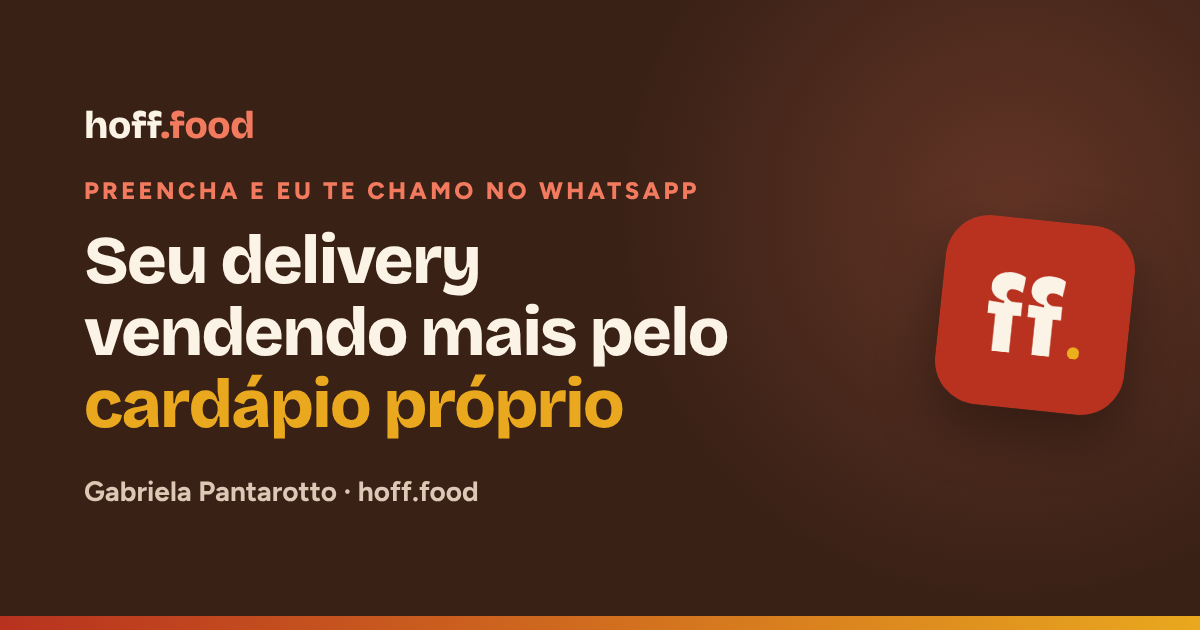
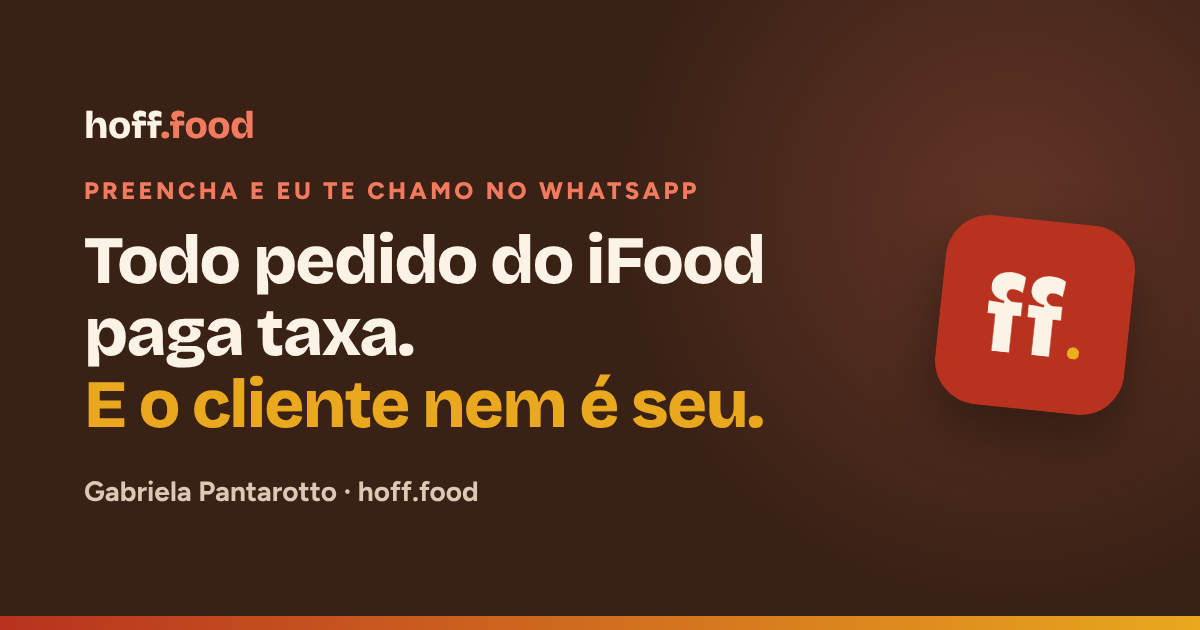
Frase de posicionamento nova, gancho da taxa no formulário, pixel do site, calculadora a partir de R$ 60 mil e linguagem do briefing
Claude-Session: https://claude.ai/code/session_01KkMnGWdzj6w16u1CcYf93H

Changed region(s): [[0.0617, 0.3619, 0.6475, 0.6937]]

diff --git a/index.html b/index.html
@@ -3,8 +3,8 @@
 <head>
 <meta charset="utf-8">
 <meta name="viewport" content="width=device-width, initial-scale=1, viewport-fit=cover">
-<title>hoff.food | Canal próprio para delivery e restaurantes</title>
-<meta name="description" content="Campanha no raio de entrega, cardápio próprio e recompra semanal para restaurantes e deliveries que querem vender direto, sem depender só do iFood.">
+<title>hoff.food | Canal próprio para delivery</title>
+<meta name="description" content="Campanha no raio de entrega, cardápio próprio e recompra semanal para donos de delivery que querem vender direto, sem depender só do iFood.">
 <meta name="theme-color" content="#3A2116">
 <link rel="canonical" href="https://www.estudiohoff.com.br/">
 
@@ -13,7 +13,7 @@
 <meta property="og:locale" content="pt_BR">
 <meta property="og:site_name" content="hoff.food">
 <meta property="og:title" content="Todo pedido paga taxa. E o cliente nem é seu.">
-<meta property="og:description" content="Campanha no raio de entrega, cardápio próprio e recompra semanal para restaurantes e deliveries que querem vender direto, sem depender só do iFood.">
+<meta property="og:description" content="Campanha no raio de entrega, cardápio próprio e recompra semanal para donos de delivery que querem vender direto, sem depender só do iFood.">
 <meta property="og:url" content="https://www.estudiohoff.com.br/">
 <meta property="og:image" content="https://www.estudiohoff.com.br/og-image.png">
 <meta property="og:image:type" content="image/png">
@@ -22,7 +22,7 @@
 <meta property="og:image:alt" content="hoff.food: todo pedido paga taxa e o cliente nem é seu. Canal próprio para delivery.">
 <meta name="twitter:card" content="summary_large_image">
 <meta name="twitter:title" content="Todo pedido paga taxa. E o cliente nem é seu.">
-<meta name="twitter:description" content="Campanha no raio de entrega, cardápio próprio e recompra semanal para restaurantes e deliveries que querem vender direto, sem depender só do iFood.">
+<meta name="twitter:description" content="Campanha no raio de entrega, cardápio próprio e recompra semanal para donos de delivery que querem vender direto, sem depender só do iFood.">
 <meta name="twitter:image" content="https://www.estudiohoff.com.br/og-image.png">
 
 <!-- Ícones da aba do navegador e da tela inicial -->
@@ -164,7 +164,7 @@ mark{background:var(--mustard);color:#3A2116;padding:0 .14em;border-radius:.16em
 .calc-row{display:flex;align-items:baseline;justify-content:space-between;gap:12px}
 .calc-row label,.calc-plan label{font-weight:700;font-size:16px}
 .calc-row output{font:800 24px/1 var(--f-display);color:var(--tomato);white-space:nowrap}
-#calc-fat{--p:11%;-webkit-appearance:none;appearance:none;display:block;width:100%;height:28px;margin:0;background:none;cursor:pointer}
+#calc-fat{--p:56%;-webkit-appearance:none;appearance:none;display:block;width:100%;height:28px;margin:0;background:none;cursor:pointer}
 #calc-fat::-webkit-slider-runnable-track{height:8px;border-radius:99px;background:linear-gradient(to right,var(--tomato) var(--p),var(--line) var(--p))}
 #calc-fat::-moz-range-track{height:8px;border-radius:99px;background:var(--line)}
 #calc-fat::-moz-range-progress{height:8px;border-radius:99px;background:var(--tomato)}
@@ -883,7 +883,7 @@ fieldset.field{border:0;padding:0;margin:0;min-width:0}
     <div class="hero-copy">
       <p class="eyebrow">Para delivery que depende do iFood</p>
       <h1>Todo pedido <mark>paga taxa.</mark><br>E o cliente <span style="white-space:nowrap">nem é seu.</span></h1>
-      <p class="lead">O app fica com a margem e com o contato de quem compra. Um canal próprio devolve os dois.</p>
+      <p class="lead">Eu ajudo donos de delivery que vendem pelo iFood a faturar mais pelo cardápio próprio, pelo método Escala de Pedidos.</p>
       <div class="hero-actions">
         <a class="btn btn-cta" href="https://wa.me/5519988485348?text=Oi%21%20Vim%20pelo%20site%20do%20hoff.food%20e%20quero%20entender%20como%20funciona%20para%20o%20meu%20neg%C3%B3cio." data-wa data-pos="hero" target="_blank" rel="noopener">Quero vender direto <svg class="ic" aria-hidden="true"><use href="#i-arrow"/></svg></a>
         <a class="link-quiet" href="#como-funciona">Ver como funciona</a>
@@ -900,10 +900,10 @@ fieldset.field{border:0;padding:0;margin:0;min-width:0}
       <h2>Quanto o iFood leva do seu delivery por mês?</h2>
       <div class="calc-row">
         <label for="calc-fat">Faturamento mensal no iFood</label>
-        <output id="calc-fat-out" for="calc-fat">R$ 20 mil</output>
+        <output id="calc-fat-out" for="calc-fat">R$ 60 mil</output>
       </div>
       <div>
-        <input type="range" id="calc-fat" min="10000" max="100000" step="5000" value="20000" aria-describedby="calc-scale">
+        <input type="range" id="calc-fat" min="10000" max="100000" step="5000" value="60000" aria-describedby="calc-scale">
         <div class="calc-scale" id="calc-scale"><span>R$ 10 mil</span><span>R$ 100 mil+</span></div>
       </div>
       <div class="calc-plan">
@@ -917,9 +917,9 @@ fieldset.field{border:0;padding:0;margin:0;min-width:0}
       </div>
       <div class="calc-out" aria-live="polite">
         <span class="calc-small">Cerca de</span>
-        <strong id="calc-mes">R$ 5.240</strong>
-        <span class="calc-small">por mês ficam com o marketplace.</span>
-        <p class="calc-sub">≈ <b id="calc-dia">R$ 175</b> por dia · <b id="calc-ano">R$ 62.880</b> por ano</p>
+        <strong id="calc-mes">R$ 15.720</strong>
+        <span class="calc-small">por mês ficam com o iFood.</span>
+        <p class="calc-sub">≈ <b id="calc-dia">R$ 524</b> por dia · <b id="calc-ano">R$ 188.640</b> por ano</p>
       </div>
       <a class="btn btn-cta btn-block" id="calc-cta" href="https://wa.me/5519988485348?text=Oi%21%20Vim%20pelo%20site%20do%20hoff.food%20e%20quero%20entender%20como%20funciona%20para%20o%20meu%20neg%C3%B3cio." data-wa data-pos="calculadora" target="_blank" rel="noopener">Quero reduzir essa dependência <svg class="ic" aria-hidden="true"><use href="#i-arrow"/></svg></a>
       <p class="calc-note">Estimativa com base nas taxas públicas do iFood. Seu contrato pode variar. É o custo de hoje, não uma promessa de economia.</p>
@@ -935,16 +935,16 @@ fieldset.field{border:0;padding:0;margin:0;min-width:0}
   <div class="marquee">
     <div class="track">
       <ul>
-        <li>Hamburgueria</li><li>Pizzaria</li><li>Restaurante</li><li>Bar</li><li>Confeitaria</li><li>Delivery</li>
+        <li>Hamburgueria</li><li>Pizzaria</li><li>Japonês</li><li>Confeitaria</li><li>Delivery</li>
       </ul>
       <ul aria-hidden="true">
-        <li>Hamburgueria</li><li>Pizzaria</li><li>Restaurante</li><li>Bar</li><li>Confeitaria</li><li>Delivery</li>
+        <li>Hamburgueria</li><li>Pizzaria</li><li>Japonês</li><li>Confeitaria</li><li>Delivery</li>
       </ul>
       <ul aria-hidden="true">
-        <li>Hamburgueria</li><li>Pizzaria</li><li>Restaurante</li><li>Bar</li><li>Confeitaria</li><li>Delivery</li>
+        <li>Hamburgueria</li><li>Pizzaria</li><li>Japonês</li><li>Confeitaria</li><li>Delivery</li>
       </ul>
       <ul aria-hidden="true">
-        <li>Hamburgueria</li><li>Pizzaria</li><li>Restaurante</li><li>Bar</li><li>Confeitaria</li><li>Delivery</li>
+        <li>Hamburgueria</li><li>Pizzaria</li><li>Japonês</li><li>Confeitaria</li><li>Delivery</li>
       </ul>
     </div>
   </div>
@@ -970,7 +970,7 @@ fieldset.field{border:0;padding:0;margin:0;min-width:0}
     </div>
     <div class="turn">
       <p class="turn-big">Nada disso é falta de esforço seu. É falta de método.</p>
-      <p class="turn-sub">Cada pedido que entra só pelo app deixa a comissão com ele, e o cliente também. Falta um sistema que ligue cliente novo, pedido direto e recompra.</p>
+      <p class="turn-sub">Cada pedido que entra só pelo app deixa a comissão com ele, e o cliente também. Falta um método que ligue cliente novo, pedido direto e recompra.</p>
       <div class="duo">
         <p class="duo-a">O pedido que chega pelo app é do app.</p>
         <p class="duo-b">O cliente que chega pelo seu canal é <mark>seu</mark>.</p>
@@ -986,13 +986,13 @@ fieldset.field{border:0;padding:0;margin:0;min-width:0}
   <div class="wrap">
     <div class="head center method-head">
       <p class="eyebrow">Método Escala de Pedidos</p>
-      <h2 class="h2-long">O sistema que devolve ao seu delivery o <em class="hl">controle</em> de quanto você vai vender hoje.</h2>
+      <h2 class="h2-long">O método que devolve ao seu delivery o <em class="hl">controle</em> de quanto você vende pelo canal próprio.</h2>
       <p class="lead muted">Seis frentes trabalhando juntas. O iFood continua rodando, e você deixa de depender só dele.</p>
     </div>
     <div class="changes rail" data-label="As seis frentes do método">
       <article class="change">
         <div class="ch-top"><span class="ico"><svg class="ic" aria-hidden="true"><use href="#i-store"/></svg></span><div><h3>Cardápio que vende sozinho</h3><p class="tag">Cardápio próprio e engenharia</p></div></div>
-        <p>Seu melhor vendedor trabalhando por você: pedido direto, sem comissão, com itens e preços pensados pra vender mais.</p>
+        <p>Seu melhor vendedor trabalhando por você: pedido direto, com itens e preços pensados pra vender mais.</p>
       </article>
       <article class="change">
         <div class="ch-top"><span class="ico"><svg class="ic" aria-hidden="true"><use href="#i-mega"/></svg></span><div><h3>Gente nova todo dia</h3><p class="tag">Campanha no raio de entrega</p></div></div>
@@ -1015,7 +1015,7 @@ fieldset.field{border:0;padding:0;margin:0;min-width:0}
         <p>O iFood continua rodando do lado, e o hoff.food também pode cuidar da gestão do app enquanto o seu canal próprio cresce.</p>
       </article>
     </div>
-    <p class="changes-close">Você continua no marketplace, mas passa a construir uma base de pedidos que é do seu delivery. <strong>O coração do método entra no ar em até 10 dias.</strong></p>
+    <p class="changes-close">Você continua no iFood, mas passa a construir uma base de pedidos que é do seu delivery. <strong>O coração do método entra no ar em até 10 dias.</strong></p>
     <div class="cta-row"><a class="btn btn-cta" id="escala-link" href="https://wa.me/5519988485348?text=Oi%21%20Vim%20pelo%20site%20do%20hoff.food%20e%20quero%20saber%20mais%20sobre%20a%20Escala%20de%20Pedidos." data-wa data-pos="escala" target="_blank" rel="noopener">Quero conhecer o método <svg class="ic" aria-hidden="true"><use href="#i-arrow"/></svg></a></div>
   </div>
 </section>
@@ -1065,7 +1065,7 @@ fieldset.field{border:0;padding:0;margin:0;min-width:0}
         <h3 class="dur">10 dias</h3>
         <p>Tudo criado em 10 dias, sem recorrência, mais 30 dias de acompanhamento.</p>
         <p class="keep"><svg class="ic" aria-hidden="true"><use href="#i-check"/></svg>Depois, cardápio, campanha e recompra ficam com você.</p>
-        <p class="who"><b>Para quem:</b> quem tem time pra tocar o dia a dia e quer o sistema certo, montado por especialista.</p>
+        <p class="who"><b>Para quem:</b> quem tem time pra tocar o dia a dia e quer o método certo, montado por especialista.</p>
         <a class="plan-link" href="https://escala.estudiohoff.com.br/" target="_blank" rel="noopener">Ver o método completo <svg class="ic" aria-hidden="true"><use href="#i-arrow"/></svg></a>
         <a class="btn btn-ghost btn-sm" href="https://wa.me/5519988485348?text=Oi%21%20Vim%20pelo%20site%20do%20hoff.food%20e%20quero%20saber%20mais%20sobre%20a%20implementa%C3%A7%C3%A3o%20em%2010%20dias." data-wa data-pos="plano-implementacao" target="_blank" rel="noopener"><span>Quero a implementação</span></a>
       </article>
@@ -1104,7 +1104,7 @@ fieldset.field{border:0;padding:0;margin:0;min-width:0}
           </article>
           <article class="avulso">
             <span class="badge"><svg class="ic" aria-hidden="true"><use href="#i-store"/></svg></span>
-            <div><h3>Cardápio próprio completo e otimizado</h3><p>Para quem ainda não tem canal próprio: pedido direto pelo WhatsApp, sem comissão de marketplace. As imagens vêm do seu negócio.</p></div>
+            <div><h3>Cardápio próprio completo e otimizado</h3><p>Para quem ainda não tem canal próprio: pedido direto pelo WhatsApp, sem passar pelo iFood. As imagens vêm do seu negócio.</p></div>
             <a class="btn btn-ghost btn-sm" href="https://wa.me/5519988485348?text=Oi%21%20Vim%20pelo%20site%20do%20hoff.food%20e%20quero%20saber%20mais%20sobre%20o%20card%C3%A1pio%20pr%C3%B3prio%20completo." data-wa data-pos="servico-cardapio" target="_blank" rel="noopener"><span>Falar sobre este serviço</span></a>
           </article>
           <article class="avulso">
@@ -1119,7 +1119,7 @@ fieldset.field{border:0;padding:0;margin:0;min-width:0}
     <div class="start">
       <h3>Por onde começar?</h3>
       <ul>
-        <li><span>Tem time para tocar o dia a dia e quer o sistema certo</span><svg class="ic" aria-hidden="true"><use href="#i-arrow"/></svg><strong class="go">Implementação em 10 dias</strong></li>
+        <li><span>Tem time para tocar o dia a dia e quer o método certo</span><svg class="ic" aria-hidden="true"><use href="#i-arrow"/></svg><strong class="go">Implementação em 10 dias</strong></li>
         <li><span>Quer escalar pedidos, faturar mais e construir uma marca duradoura</span><svg class="ic" aria-hidden="true"><use href="#i-arrow"/></svg><strong class="go">Gestão de delivery completa (3, 6 ou 12 meses)</strong></li>
         <li><span>Precisa só de uma parte do método</span><svg class="ic" aria-hidden="true"><use href="#i-arrow"/></svg><strong class="go"><a href="#avulsos" data-open="avulsos">Serviços avulsos</a></strong></li>
       </ul>
@@ -1266,7 +1266,7 @@ fieldset.field{border:0;padding:0;margin:0;min-width:0}
     <div class="head center"><h2>Antes de você perguntar</h2></div>
     <div class="faq">
       <div class="faq-col">
-        <details name="faq"><summary>Serve pro meu tipo de negócio?<svg class="ic" aria-hidden="true"><use href="#i-down"/></svg></summary><p class="ans">Serve para deliveries e restaurantes. A Gabriela já entregou mais de 150 projetos com o Estúdio Hoff, de hamburgueria a pizzaria. O método rende mais pra quem já vende bem no marketplace; quem ainda não tem canal próprio começa pelo cardápio próprio.</p></details>
+        <details name="faq"><summary>Serve pro meu tipo de negócio?<svg class="ic" aria-hidden="true"><use href="#i-down"/></svg></summary><p class="ans">Serve para donos de delivery que vendem pelo iFood. A Gabriela já entregou mais de 150 projetos com o Estúdio Hoff, de hamburgueria a pizzaria. O método rende mais pra quem já vende bem no iFood; quem ainda não tem canal próprio começa pelo cardápio próprio.</p></details>
         <details name="faq"><summary>Como contrato o Método Escala de Pedidos?<svg class="ic" aria-hidden="true"><use href="#i-down"/></svg></summary><p class="ans">De três formas: implementação (no ar em 10 dias, com 30 dias de acompanhamento, e depois a gestão fica com você), recorrência (a mesma implementação, seguida de gestão por 3, 6 ou 12 meses) ou avulso (engenharia de cardápio, cardápio próprio ou tráfego pago). Na conversa no WhatsApp você descobre qual faz sentido agora.</p></details>
         <details name="faq"><summary>Quanto custa?<svg class="ic" aria-hidden="true"><use href="#i-down"/></svg></summary><p class="ans">Depende do seu momento e do que o negócio precisa agora. Por isso o primeiro passo é a conversa no WhatsApp. Depois dela, você recebe a proposta com os valores, sem compromisso.</p></details>
       </div>
@@ -1315,7 +1315,7 @@ fieldset.field{border:0;padding:0;margin:0;min-width:0}
     <div class="foot-grid">
       <div class="foot-brand">
[1 lines of base64/hex data omitted]
-        <p>Marketing de comida que vende. Para restaurantes e deliveries.</p>
+        <p>Marketing de comida que vende. Para donos de delivery.</p>
       </div>
       <div>
         <h4>Navegação</h4>
@@ -1483,7 +1483,7 @@ fieldset.field{border:0;padding:0;margin:0;min-width:0}
       document.getElementById('calc-mes').textContent = brl(mes);
       document.getElementById('calc-dia').textContent = brl(mes / 30);
       document.getElementById('calc-ano').textContent = brl(mes * 12);
-      var msg = 'Oi! Vim pelo site do hoff.food. Fiz a conta: com ' + document.getElementById('calc-fat-out').textContent + ' por mês no iFood, cerca de ' + brl(mes) + ' ficam com o marketplace. Quero entender como reduzir essa dependência.';
+      var msg = 'Oi! Vim pelo site do hoff.food. Fiz a conta: com ' + document.getElementById('calc-fat-out').textContent + ' por mês no iFood, cerca de ' + brl(mes) + ' ficam com o iFood. Quero entender como reduzir essa dependência.';
       cCta.href = WA + encodeURIComponent(msg);
     }
     cFat.addEventListener('input', calc); cSel.addEventListener('change', calc);
@@ -1507,7 +1507,7 @@ fieldset.field{border:0;padding:0;margin:0;min-width:0}
   var quiz = document.getElementById('quiz');
   if(quiz){
     var Q = [
-      {k:'canal', t:'Por onde você vende hoje?', h:'Pode marcar mais de um.', multi:true, o:['Delivery próprio','iFood ou outro marketplace','WhatsApp','Salão']},
+      {k:'canal', t:'Por onde você vende hoje?', h:'Pode marcar mais de um.', multi:true, o:['Delivery próprio','iFood ou outro app','WhatsApp','Salão']},
       {k:'venda', t:'O que você vende?', o:['Hambúrguer','Pizza','Japonês','Açaí e sobremesas','Restaurante e marmita','Outro']},
       {k:'ifood', t:'Quanto das suas vendas vem do iFood?', h:'Pode ser uma estimativa.', o:['Quase tudo','Mais da metade','Menos da metade','Não sei']},
       {k:'dor', t:'O que mais incomoda hoje?', o:['A taxa come a minha margem','O cliente compra uma vez e não volta','Anuncio e não vejo retorno','Não sei de onde vêm meus pedidos','Quero vender mais direto']},

diff --git a/formulario/index.html b/formulario/index.html
@@ -3,8 +3,8 @@
 <head>
 <meta charset="utf-8">
 <meta name="viewport" content="width=device-width, initial-scale=1, viewport-fit=cover">
-<title>Seu delivery vendendo mais pelo cardápio próprio | hoff.food</title>
-<meta name="description" content="Gabriela Pantarotto ajuda donos de delivery a transformar a taxa que vai para os marketplaces em faturamento no próprio cardápio. Preencha e ela te chama no WhatsApp.">
+<title>Faturar mais pelo cardápio próprio do seu delivery | hoff.food</title>
+<meta name="description" content="Eu ajudo donos de delivery que vendem pelo iFood a faturar mais pelo cardápio próprio, pelo método Escala de Pedidos. Preencha e eu te chamo no WhatsApp.">
 <meta name="theme-color" content="#FBF3E6">
 <link rel="canonical" href="https://www.estudiohoff.com.br/formulario/">
 
@@ -12,16 +12,16 @@
 <meta property="og:type" content="website">
 <meta property="og:locale" content="pt_BR">
 <meta property="og:site_name" content="hoff.food">
-<meta property="og:title" content="Seu delivery vendendo mais pelo cardápio próprio">
+<meta property="og:title" content="Faturar mais pelo cardápio próprio do seu delivery">
 <meta property="og:description" content="Preencha o formulário e a Gabriela te chama no WhatsApp para falar do seu delivery.">
 <meta property="og:url" content="https://www.estudiohoff.com.br/formulario/">
 <meta property="og:image" content="https://www.estudiohoff.com.br/formulario/og-image.png">
 <meta property="og:image:type" content="image/png">
 <meta property="og:image:width" content="1200">
 <meta property="og:image:height" content="630">
-<meta property="og:image:alt" content="hoff.food: seu delivery vendendo mais pelo cardápio próprio">
+<meta property="og:image:alt" content="hoff.food: faturar mais pelo cardápio próprio do seu delivery">
 <meta name="twitter:card" content="summary_large_image">
-<meta name="twitter:title" content="Seu delivery vendendo mais pelo cardápio próprio">
+<meta name="twitter:title" content="Faturar mais pelo cardápio próprio do seu delivery">
 <meta name="twitter:description" content="Preencha o formulário e a Gabriela te chama no WhatsApp para falar do seu delivery.">
 <meta name="twitter:image" content="https://www.estudiohoff.com.br/formulario/og-image.png">
 
@@ -227,8 +227,8 @@ footer{padding-block:6px 30px;text-align:center;font-size:14px;color:var(--muted
 <div class="wrap">
 <main class="grid" id="topo">
   <section class="hero" aria-labelledby="t">
-    <h1 id="t">Seu delivery vendendo mais pelo <em>cardápio próprio</em></h1>
-    <p class="sub">Sou a Gabriela, e ajudo donos de delivery a transformar a taxa que vai para os marketplaces em faturamento no próprio cardápio. Preencha abaixo e eu te chamo no WhatsApp.</p>
+    <h1 id="t">Todo pedido do iFood paga taxa. <em>E o cliente nem é seu.</em></h1>
+    <p class="sub">Sou a Gabriela e ajudo donos de delivery que vendem pelo iFood a faturar mais pelo cardápio próprio, pelo método Escala de Pedidos. Preencha abaixo e eu te chamo no WhatsApp.</p>
   </section>
 
   <section class="formcol" id="formulario" aria-labelledby="f">
@@ -242,7 +242,7 @@ footer{padding-block:6px 30px;text-align:center;font-size:14px;color:var(--muted
     </div>
     <div class="formcard" id="form-card">
       <div id="form-view">
-        <h2 id="f">Quero a análise do meu delivery</h2>
+        <h2 id="f">Quanto o seu delivery pode vender direto?</h2>
         <form id="lead" novalidate autocomplete="on">
           <div class="field">
             <label for="nome">Seu nome</label>
@@ -272,7 +272,7 @@ footer{padding-block:6px 30px;text-align:center;font-size:14px;color:var(--muted
           <div class="hp" aria-hidden="true"><label>Empresa <input type="text" name="empresa" tabindex="-1" autocomplete="off"></label></div>
           <button class="btn btn-main" type="submit" id="send"><span id="send-t">Quero a análise do meu delivery</span><svg aria-hidden="true"><use href="#i-arrow"/></svg></button>
           <p class="formerr" id="formerr" role="alert" hidden></p>
-          <p class="micro">Eu olho o seu Instagram e o seu cardápio e te chamo no WhatsApp. Se fizer sentido, te mando uma análise em vídeo.</p>
+          <p class="micro">Leva 1 minuto e você não precisa sair do iFood. Eu olho o seu Instagram e o seu cardápio e te chamo no WhatsApp. Se fizer sentido, te mando uma análise em vídeo.</p>
         </form>
       </div>
       <div class="thanks" id="thanks" hidden>
@@ -340,7 +340,7 @@ footer{padding-block:6px 30px;text-align:center;font-size:14px;color:var(--muted
         <svg class="trend" viewBox="0 0 260 120" aria-hidden="true" focusable="false"><line class="axis" x1="0" y1="96" x2="260" y2="96"/><polygon class="area" points="14.0,96 14.0,57.3 246.0,34.0 246.0,96"/><polyline class="line" points="14.0,57.3 246.0,34.0"/><circle class="dot" cx="14.0" cy="57.3" r="5.5"/><circle class="dot end" cx="246.0" cy="34.0" r="5.5"/><text class="tv" x="8.0" y="45.3" text-anchor="start">R$ 63 mil</text><text class="tv" x="252.0" y="22.0" text-anchor="end">R$ 85 mil</text><text class="tm" x="8.0" y="114" text-anchor="start">Mês 1</text><text class="tm" x="252.0" y="114" text-anchor="end">Mês 4</text></svg>
       </article>
     </div>
-    <p class="note">Números de faturamento, não de lucro. Cada gráfico usa a própria escala, sem partir do zero.</p>
+    <p class="note">Deliveries que faturavam de R$ 26 mil a R$ 63 mil por mês quando começaram. Números de faturamento, não de lucro. Cada gráfico usa a própria escala, sem partir do zero.</p>
   </details>
 
   <section class="quem" aria-labelledby="q">
@@ -364,7 +364,7 @@ footer{padding-block:6px 30px;text-align:center;font-size:14px;color:var(--muted
   /* ===== CONFIGURAÇÃO: troque aqui ===== */
   var CONFIG = {
     WEBHOOK_URL: 'https://script.google.com/macros/s/AKfycbwvZ5J3z9Rp2p8_ZRG7BG08-P1f0Xvk5wkuCzfoj8wQXdcKuLEHoowE2eYFbGKS0qR5/exec',   /* endereço que recebe cada lead (CRM, BD360, Make, Zapier ou planilha) */
-    PIXEL_ID: '',                  /* ID do Pixel da Meta, ex.: '1234567890'. Vazio = não carrega o Pixel */
+    PIXEL_ID: '1054760410535916',                /* ID do Pixel da Meta, ex.: '1234567890'. Vazio = não carrega o Pixel */
     MAIN_URL: 'https://www.estudiohoff.com.br/',          /* página principal */
     WHATSAPP: '5519988485348',
     ORIGEM_PADRAO: 'bio'
